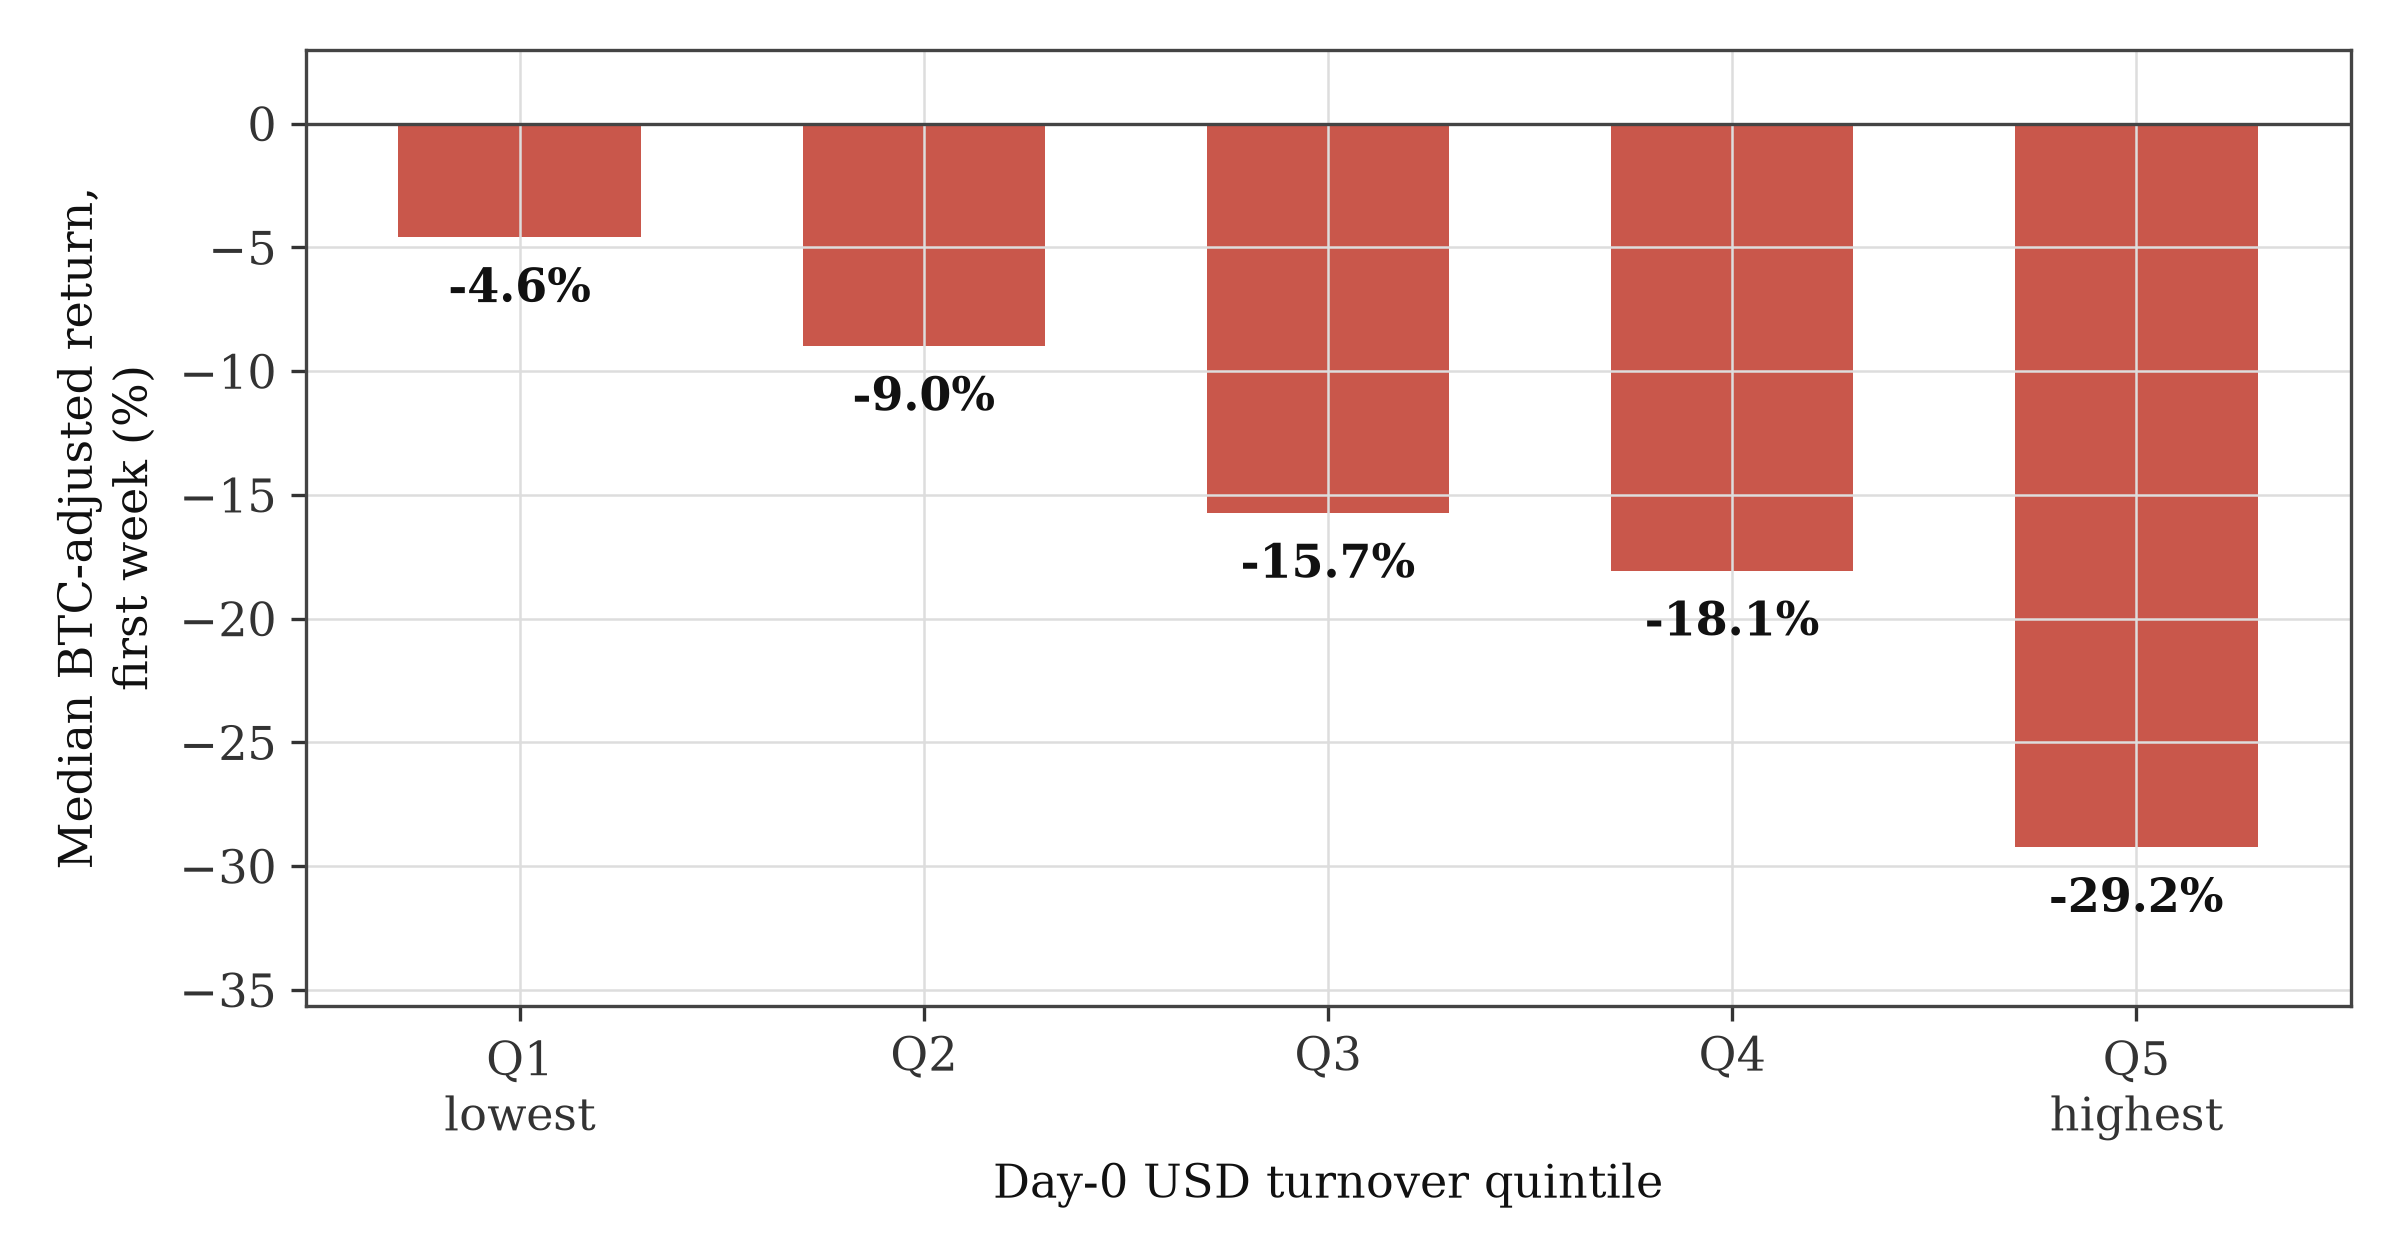
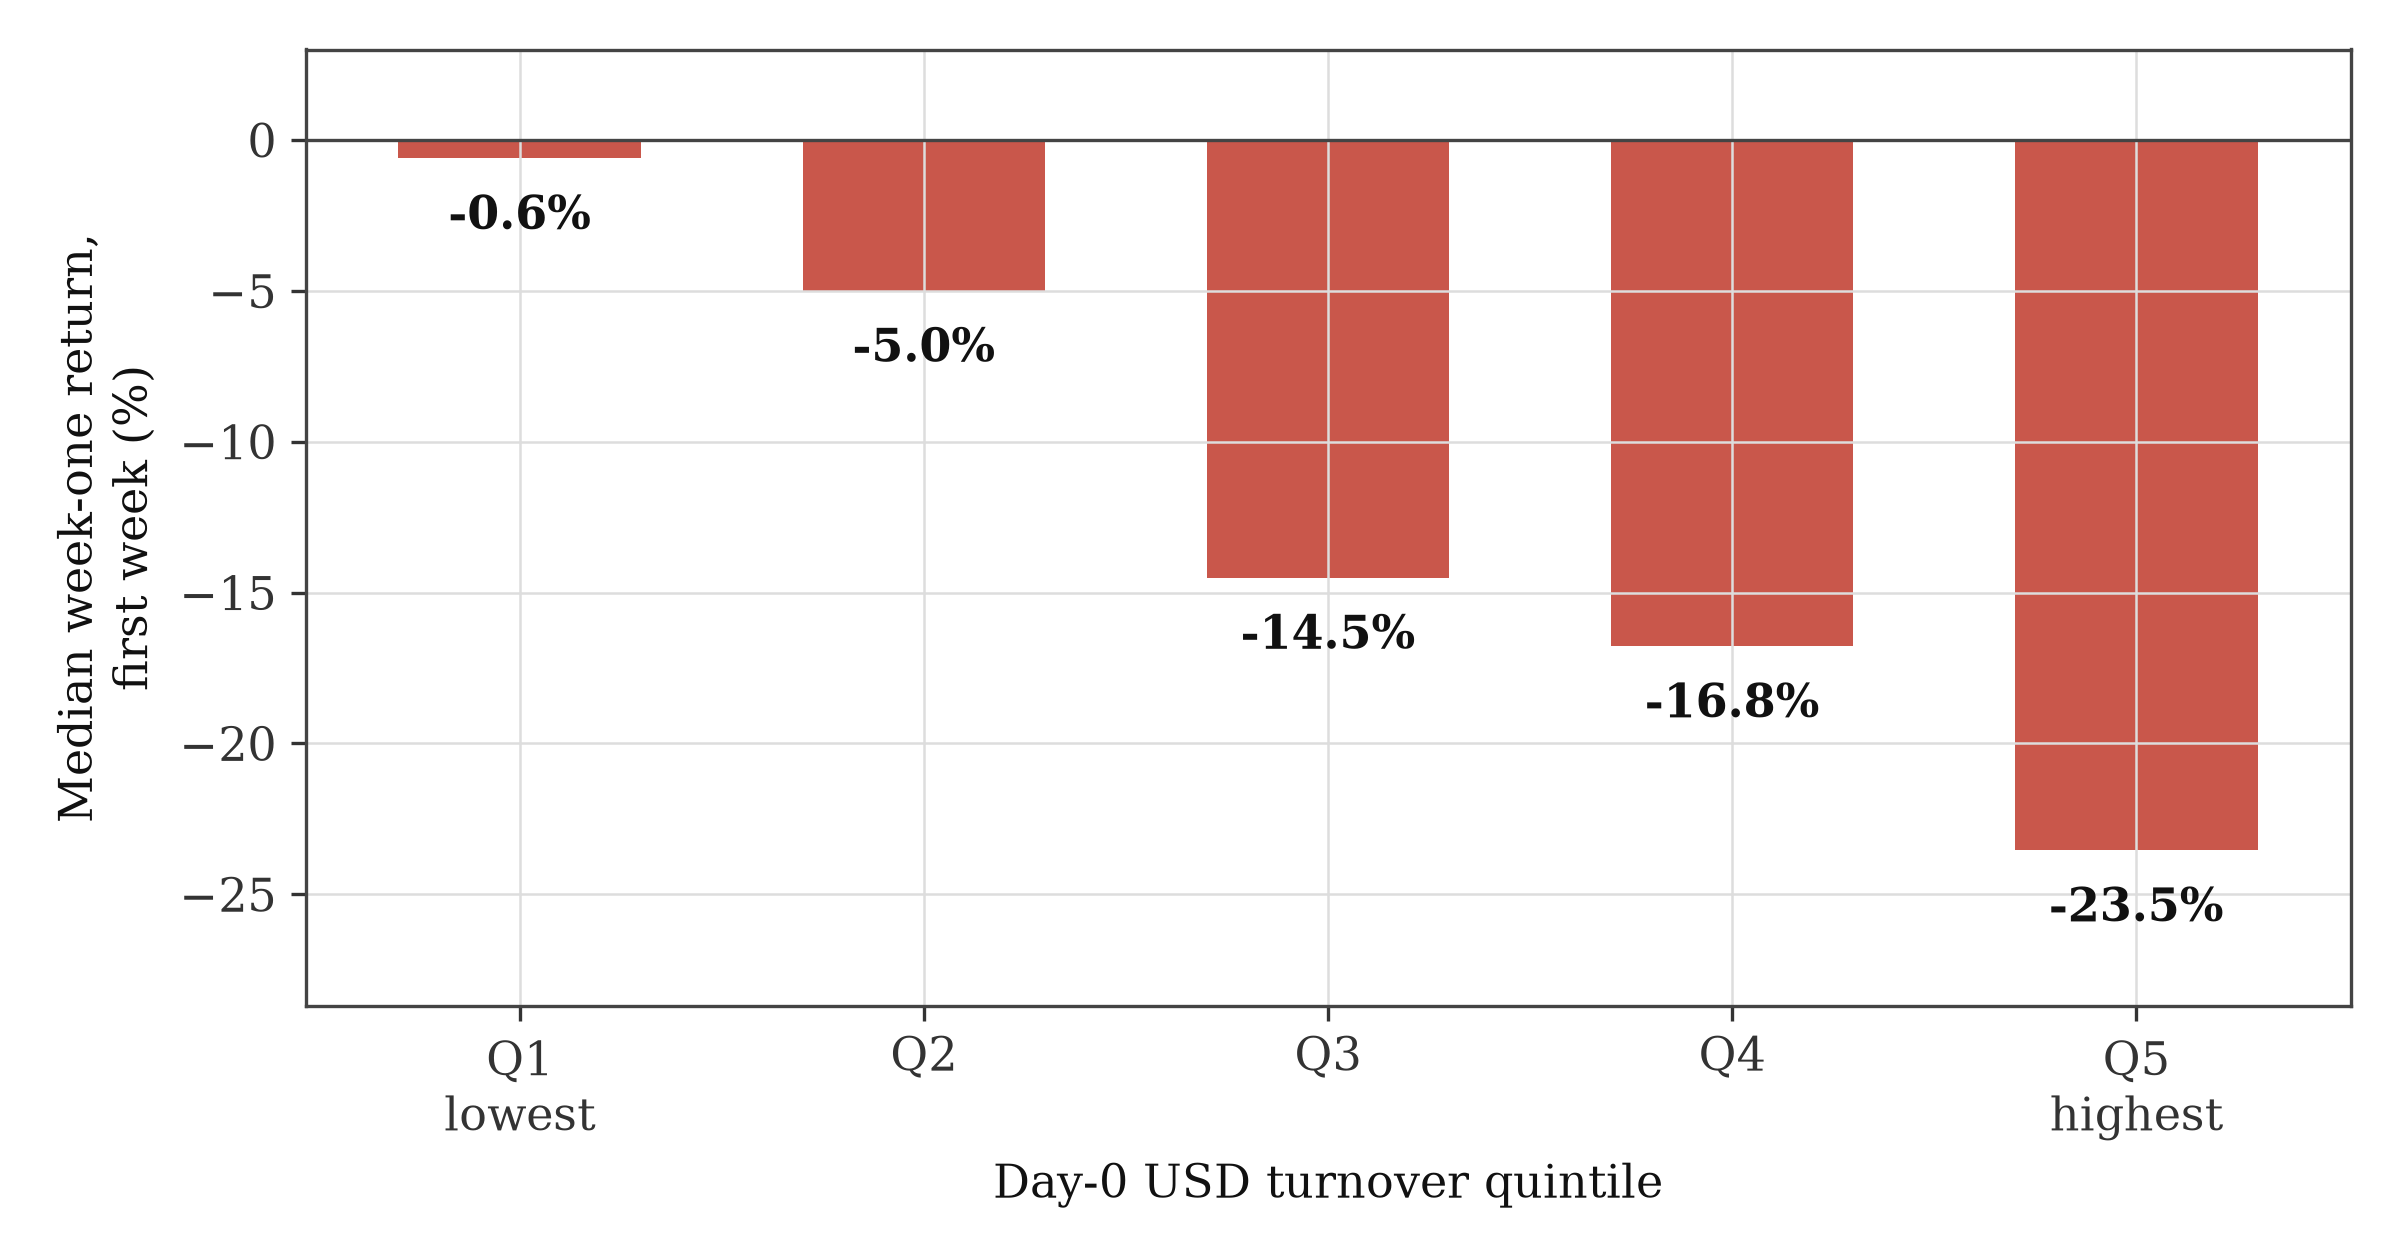
Final polish after committee audit-2 acceptance: turnover_quintiles.png rebuilt on RAW series (was BTC-adjusted, contradicted caption/text; now -0.6/-5.0/-14.5/-16.8/-23.5 as printed; generator fixed in make_charts.py); dollar_vs_token regenerated post-refresh (madj EW -12.5 at n=470); master residu

diff --git a/src/make_charts.py b/src/make_charts.py
@@ -125,20 +125,21 @@ ax.set_ylabel("Median week-one return (%)")
 ax.set_ylim(min(raw_vals + adj_vals) * 1.18, 2)
 save(fig, "dollar_vs_token.png")
 
-# --- Fig 5: fade monotone in day-0 turnover ----------------------------------
-d["q"] = pd.qcut(d.usd_turnover, 5,
-                 labels=["Q1\nlowest", "Q2", "Q3", "Q4", "Q5\nhighest"])
-q = d.groupby("q", observed=True).agg(madj=("madj_7", lambda x: x.median() * 100),
-                                      n=("madj_7", "size"))
+# --- Fig 5: fade steepens in day-0 turnover ---------------------------------
+dq = ev.merge(to, on="symbol").dropna(subset=["fwd_7"]).copy()
+dq["q"] = pd.qcut(dq.usd_turnover, 5,
+                  labels=["Q1\nlowest", "Q2", "Q3", "Q4", "Q5\nhighest"])
+q = dq.groupby("q", observed=True).agg(fwd7=("fwd_7", lambda x: x.median() * 100),
+                                       n=("fwd_7", "size"))
 fig, ax = plt.subplots(figsize=(8, 4.2))
-bars = ax.bar(q.index.astype(str), q["madj"], color=RED, alpha=0.85, width=0.6)
-for b, v in zip(bars, q["madj"]):
+bars = ax.bar(q.index.astype(str), q["fwd7"], color=RED, alpha=0.85, width=0.6)
+for b, v in zip(bars, q["fwd7"]):
     ax.text(b.get_x() + b.get_width() / 2, v - 1.2, f"{v:+.1f}%",
             ha="center", va="top", fontsize=11, fontweight="bold")
 ax.axhline(0, color="#444444", linewidth=0.8)
-ax.set_ylabel("Median BTC-adjusted return,\nfirst week (%)")
+ax.set_ylabel("Median week-one return,\nfirst week (%)")
 ax.set_xlabel("Day-0 USD turnover quintile")
-ax.set_ylim(q["madj"].min() * 1.22, 3)
+ax.set_ylim(q["fwd7"].min() * 1.22, 3)
 save(fig, "turnover_quintiles.png")
 
 print("OK:", sorted(p.name for p in CHARTS.glob("*.png")))

diff --git a/paper/cjsj_manuscript.md b/paper/cjsj_manuscript.md
@@ -13,11 +13,11 @@ abstract: |
   run to −11.45% after one week and −21.53% after a month (Wilcoxon
   p < 10⁻¹⁶). The median-dollar outcome is more than twice as bad (−28.7%
   weighted by day-0 turnover), and delisting explains less than one percentage
-  point of the gap: the money evaporates while the tokens still trade, fastest
+  point of that loss: the money evaporates while the tokens still trade, fastest
   where day-0 volume peaked. Four directional predictions, frozen before
   touching any Bybit data, are tested on 415 surviving Bybit listings: the fade
   replicates (−10.34%, BH p = 8×10⁻¹⁴), first-week extremes predict
-  continuation (r = +0.37), and the volatility-predicts-fade gradient fails, flipping sign. On the Binance panel, outside the corrected family, the survivorship decomposition attributes under one percentage point of the dollar gap to delisting. An exploratory
+  continuation (r = +0.37), and the volatility-predicts-fade gradient fails, flipping sign. On the Binance panel, outside the corrected family, the survivorship decomposition attributes under one percentage point of the dollar loss to delisting. An exploratory
   death-inclusive check on 566 Coinbase listings
   reproduces the fade almost exactly, and announcement timestamps reconstructed
   from the exchange's own publication API (99.6% coverage) locate the premium
@@ -434,7 +434,7 @@ Minute-level data around the exact timestamps closes the loop. For the 92
 events with a pre-existing market on another venue (Coinbase 61, Bybit 31),
 the median return is +9.4% over the three hours *before* the announcement
 goes public and +3.3% over the three hours after; about 7 percentage points
-of the run-up print in the last fifteen minutes before publication, and 90% of events with a full pre-window are positive (87% of all 92; Fig. 4). The pattern is identical on both
+of the run-up print in the last fifteen minutes before publication, and 90% of events with a full pre-window are positive (87% of all 92; Fig. 4). The pre-announcement run-up appears on both
 venues, and a flat three-day run-up on the same venue rules out plain
 momentum selection. (A Telegram-timestamped subsample is uninformative here:
 n = 5, mostly rebrand notices.) The

diff --git a/paper/cjsj_submission.md b/paper/cjsj_submission.md
@@ -3,7 +3,7 @@
 AUTHORLINE::Said Bakhtiev
 AUTHORLINE::Gymnasium of Aznakayevo, Republic of Tatarstan, Russia; mr.saidklick@gmail.com; ORCID 0009-0009-6357-3168
 
-ABSTRACT::Buying a token on the day a major exchange lists it is one of the most persistent folk trades in cryptocurrency markets. We argue that the apparent support is an artifact of how the measurement is built, and rebuild it: every Binance spot USDT listing from January 2021 through July 2026, 470 events, reconstructed point-in-time from raw exchange archives so that delisted tokens are never dropped. The median token loses 11.45% in its first week from the listing-day close and 21.53% in its first month. The median dollar, weighted by day-0 turnover, loses 28.7%, and delisting explains less than one percentage point of that gap. A holdout on 415 Bybit listings, with four predictions frozen in advance, replicates the fade; 566 Coinbase listings reproduce it almost exactly. Announcement timestamps reconstructed from the exchange's own publication API locate the premium before the announcement, on other venues' markets.
+ABSTRACT::Buying a token on the day a major exchange lists it is one of the most persistent folk trades in cryptocurrency markets. We argue that the apparent support is an artifact of how the measurement is built, and rebuild it: every Binance spot USDT listing from January 2021 through July 2026, 470 events, reconstructed point-in-time from raw exchange archives so that delisted tokens are never dropped. The median token loses 11.45% in its first week from the listing-day close and 21.53% in its first month. The median dollar, weighted by day-0 turnover, loses 28.7%, and delisting explains less than one percentage point of that loss. A holdout on 415 Bybit listings, with four predictions frozen in advance, replicates the fade; 566 Coinbase listings reproduce it almost exactly. Announcement timestamps reconstructed from the exchange's own publication API locate the premium before the announcement, on other venues' markets.
 
 KEYTERMS::Cryptocurrency, event study, exchange listings, survivorship bias, dollar-weighted returns.
 
